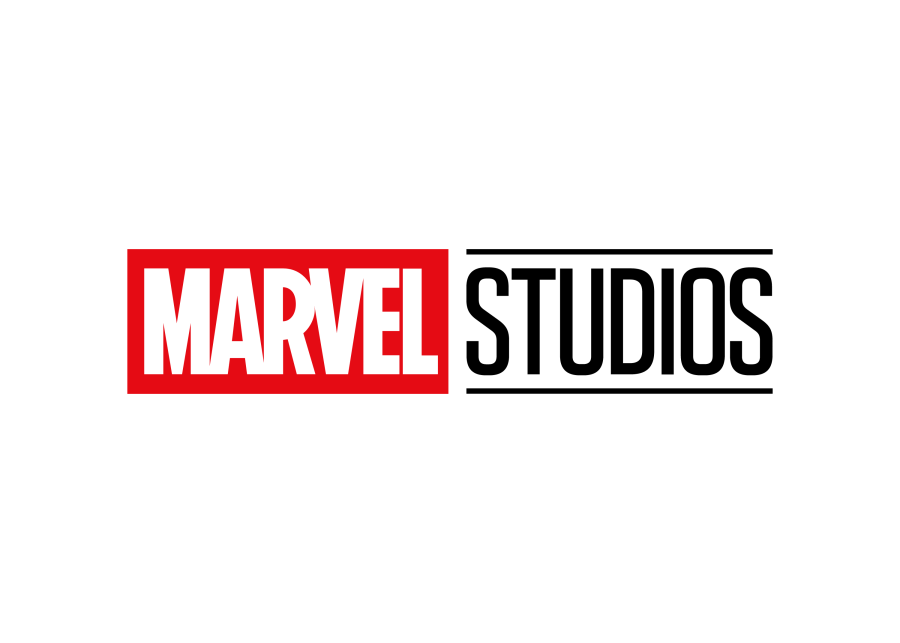
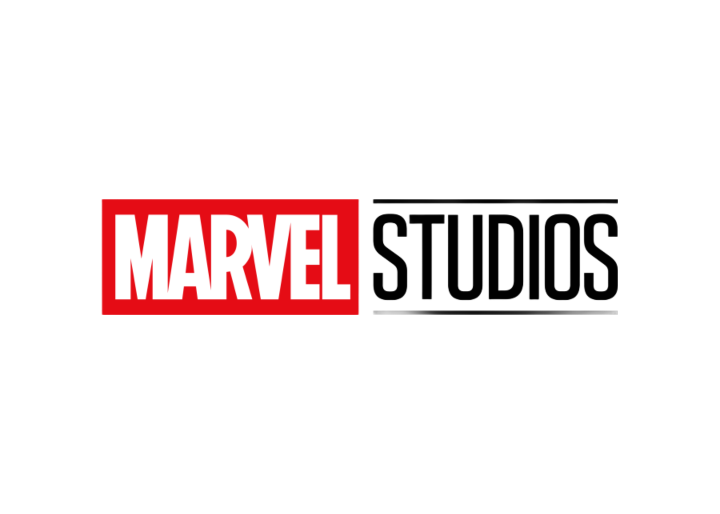
navbar pronto

Changed region(s): [[0.5194, 0.5914, 0.8556, 0.6226], [0.5194, 0.3735, 0.8556, 0.4047], [0.5806, 0.5292, 0.6111, 0.5603]]

diff --git a/index.html b/index.html
@@ -1,28 +1,28 @@
 <!DOCTYPE html>
-<html lang="pt-br">
-    <head>
-        <meta charset="UTF-8">
-        <meta name="viewport" content="width=device-width, initial-scale=1.0">
-        <link rel="stylesheet" href="style.css">
-        <link rel="stylesheet" href="https://fonts.googleapis.com/css2?family=Material+Symbols+Outlined:opsz,wght,FILL,GRAD@20..48,100..700,0..1,-50..200" />
-        <title>marvel.com</title>
-    </head>
+<meta name="viewport" content="width=device-width, initial-scale=1.0">
+<link rel="stylesheet" href="style.css">
+<link rel="stylesheet" href="https://fonts.googleapis.com/css2?family=Material+Symbols+Outlined:opsz,wght,FILL,GRAD@20..48,100..700,0..1,-50..200" />
+<title>marvel.com</title>
+</head>
     <body>
-        <!--start navbar-->
-        <div class="navbar">
-            <img src="img/navbar/logo-aranha.png" class="img-navbar-aranha" alt="logo de uma aranha">
+    <!--start navbar-->
+    <div class="navbar">
+        <img src="img/navbar/logo-aranha.png" class="img-navbar-aranha" alt="logo de uma aranha">
 
-            <ul class="ul-navbar">
-                <li>HOME</li>
-                <li>FILMES</li>
-                <li>GAMES</li>
-                <li>ABOUT</li>
-            </ul>
+        <ul class="navbar-menu">
+            <li class="li-navbar">HOME</li>
+            <li class="li-navbar">FILMES</li>
+            <li class="li-navbar">GAMES</li>
+            <li class="li-navbar">ABOUT</li>
+        </ul>
 
-            <button class="button-navbar">LOGIN</button>
+        <button class="button-navbar">LOGIN</button>
 
-            <img src="img/navbar/marvel-studios.png" class="img-navbar-marvel" alt="logo da marvel studios">
-        </div>
-        <!--end navbar -->
+        <img class="logo-marvel-studio" src="img/navbar/marvel-studios.png" class="img-navbar-marvel" alt="logo da marvel studios">
+        <span class="material-symbols-outlined">
+            menu
+            </span>
+    </div>
+    <!--end navbar -->
     </body>
 </html>
